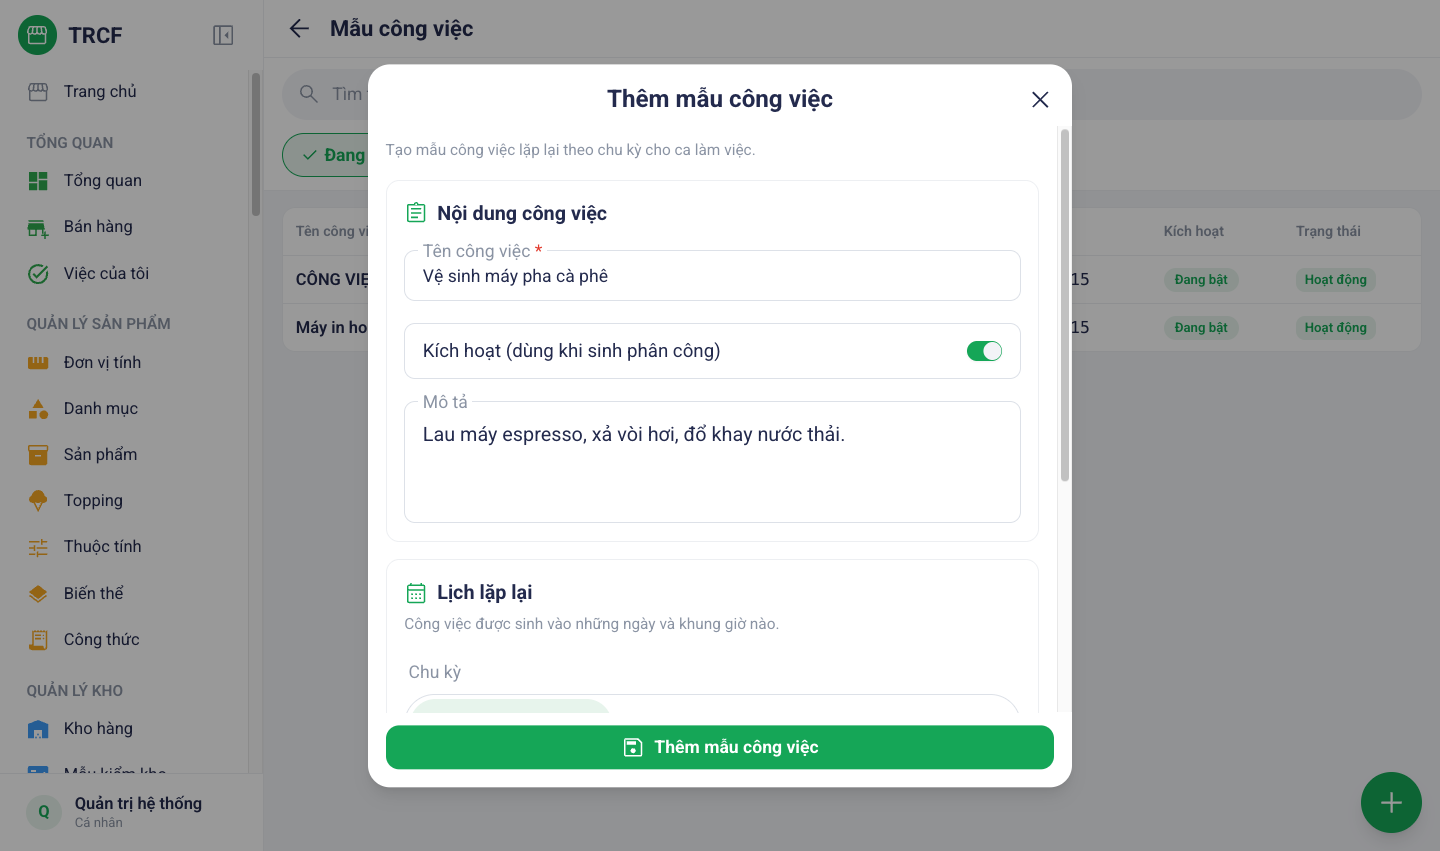
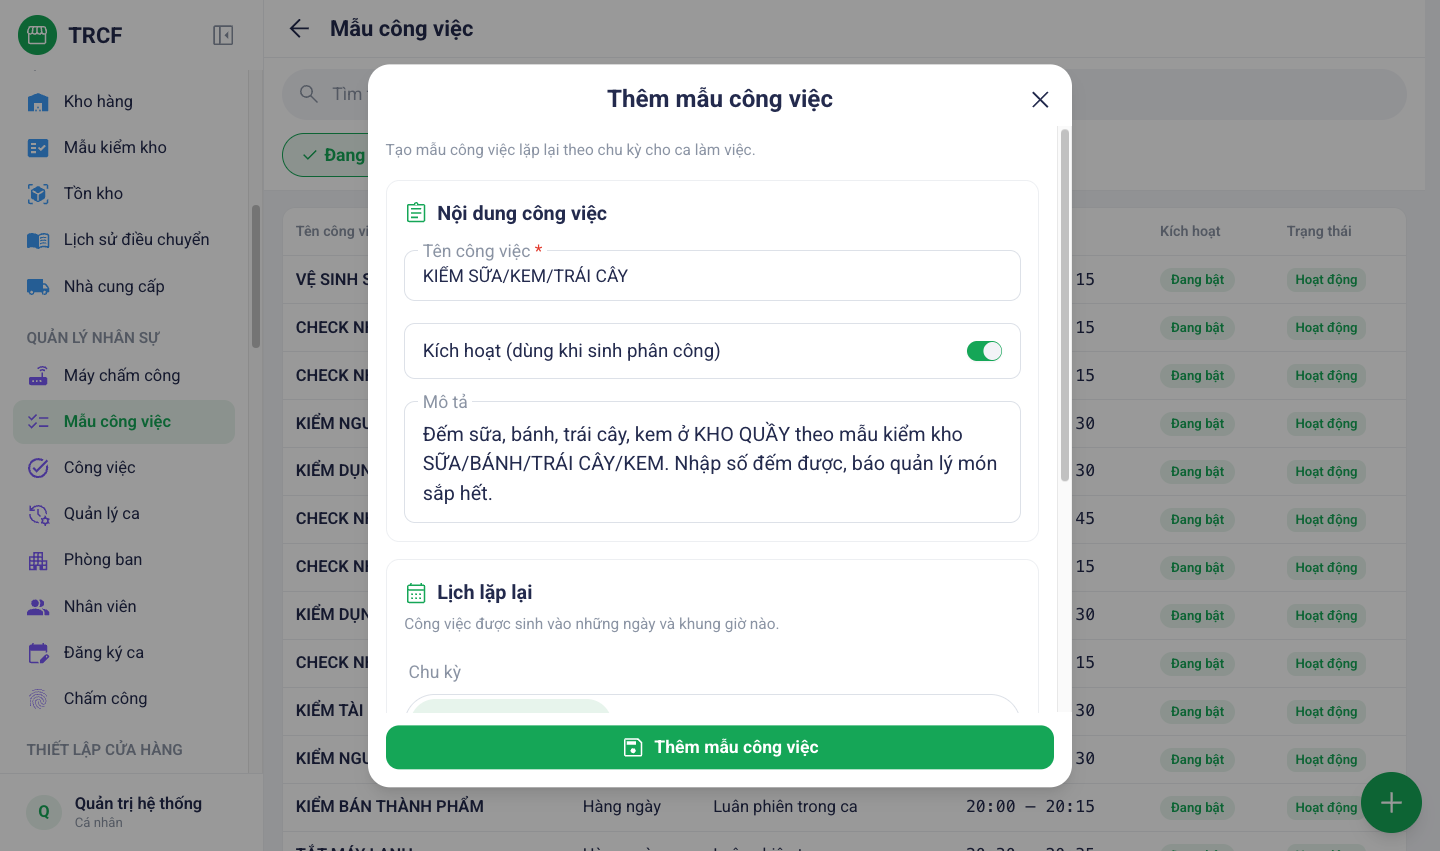
docs(7.1): ví dụ mẫu công việc thật KIỂM SỮA/KEM/TRÁI CÂY 15:30–15:45

diff --git a/noi-dung/7-1-mau-cong-viec.md b/noi-dung/7-1-mau-cong-viec.md
@@ -10,9 +10,10 @@ Menu trái: ==Quản lý nhân sự → Mẫu công việc== (địa chỉ `/tas
 
 ## 2. Ví dụ nền và các bước thực hiện
 
-> **Ví dụ:** việc lặp mỗi ngày **Vệ sinh máy pha cà phê** từ 07:00 đến 08:00, giao luân phiên cho người có ca.
+> **Ví dụ:** mỗi chiều 15:30–15:45, một người trong ca đếm sữa, bánh, trái cây, kem ở quầy theo mẫu kiểm kho SỮA/BÁNH/TRÁI CÂY/KEM ([mục 6.1](6-1-tao-mau-kiem-kho.md)).
 >
-> - Mẫu: chu kỳ **Hàng ngày**, cách giao **Luân phiên trong ca**.
+> - Mẫu: **KIỂM SỮA/KEM/TRÁI CÂY**, chu kỳ **Hàng ngày**, cách giao **Luân phiên trong ca**.
+> - Việc theo thứ trong tuần làm tương tự, VD **KIỂM NGUYÊN LIỆU - KHO** chọn **Thứ trong tuần** → **Thứ 2**, 12:00–12:30.
 
 ### Bước 1: Mở trang Mẫu công việc
 
@@ -47,9 +48,9 @@ Menu trái: ==Quản lý nhân sự → Mẫu công việc== (địa chỉ `/tas
 
 | Trường | Điền gì | Bắt buộc |
 | --- | --- | --- |
-| Tên công việc | VD **Vệ sinh máy pha cà phê** | ✅ |
+| Tên công việc | VD **KIỂM SỮA/KEM/TRÁI CÂY**, **VỆ SINH SÂN TRƯỚC** | ✅ |
 | Kích hoạt (dùng khi sinh phân công) | Tắt: tạm ngừng, không sinh việc nữa | — |
-| Mô tả | Hướng dẫn chi tiết cho người làm | — |
+| Mô tả | Hướng dẫn cho người làm: làm gì, ở đâu, xong thì báo ai | — |
 | Chu kỳ | *Hàng ngày* / *Thứ trong tuần* / *Hàng tháng* | ✅ |
 | Thứ **hoặc** Ngày trong tháng | Chỉ hiện khi chọn chu kỳ tương ứng | ✅ theo chu kỳ |
 | Giờ bắt đầu, Giờ kết thúc | Khung giờ nên làm việc này | ✅ |
